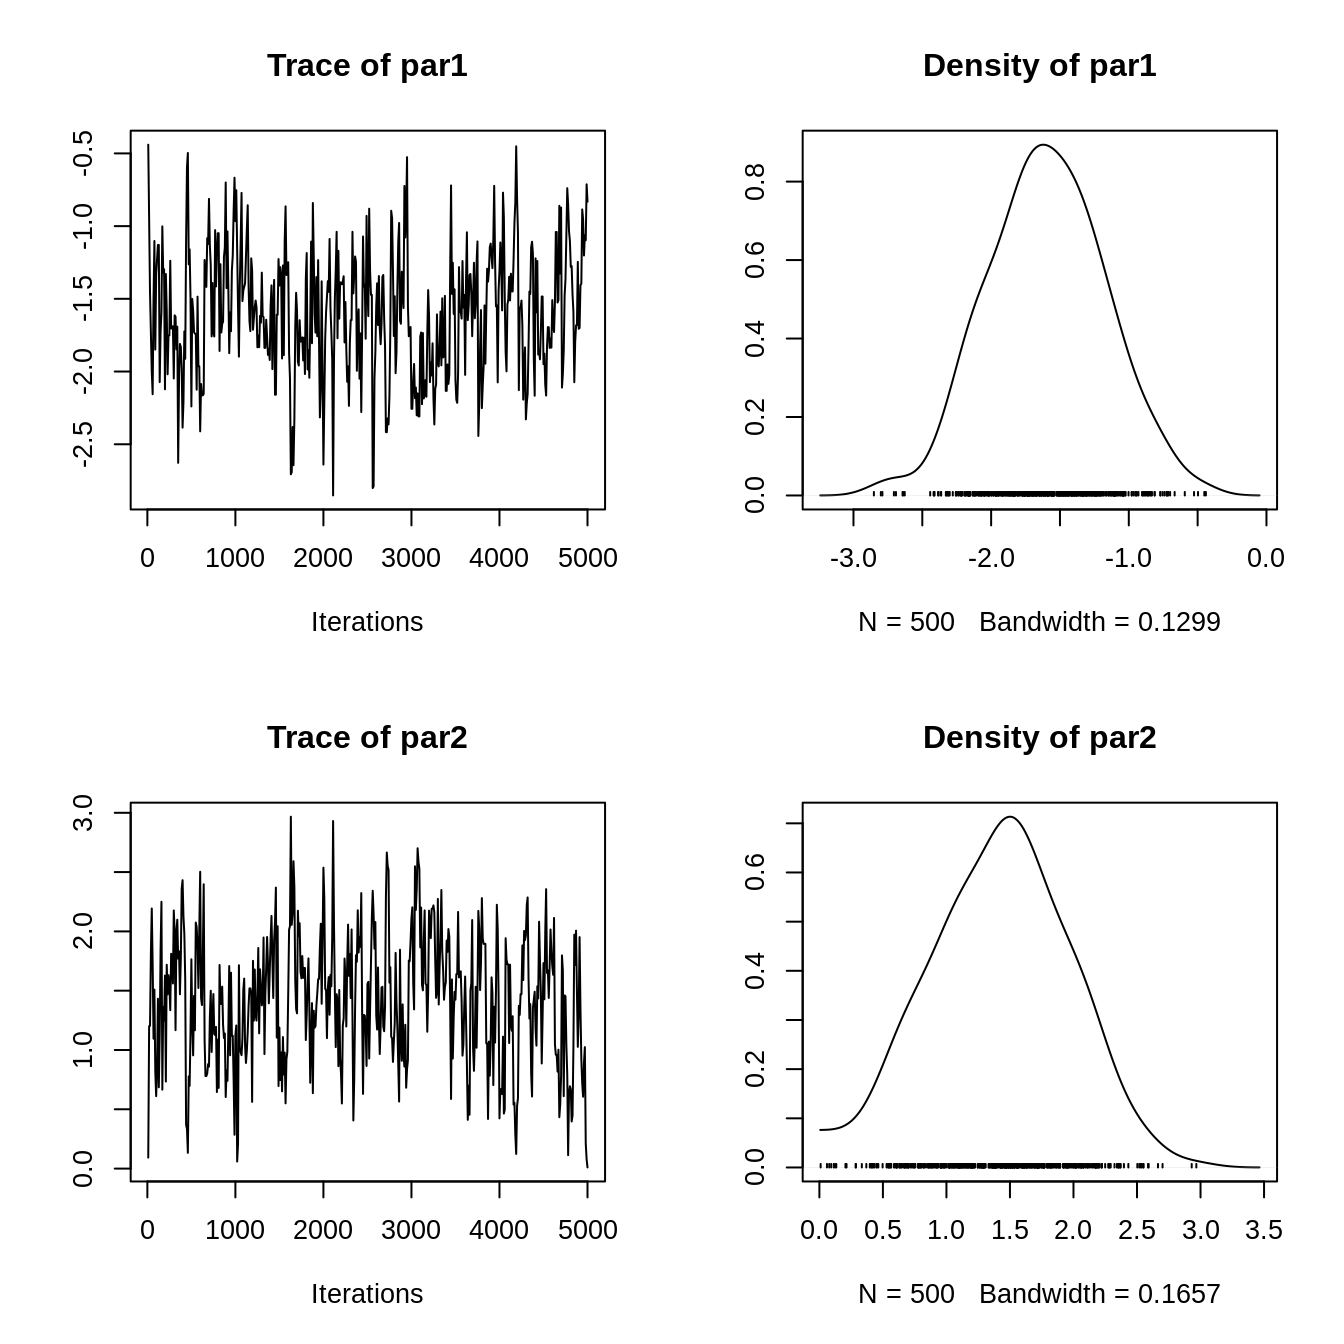
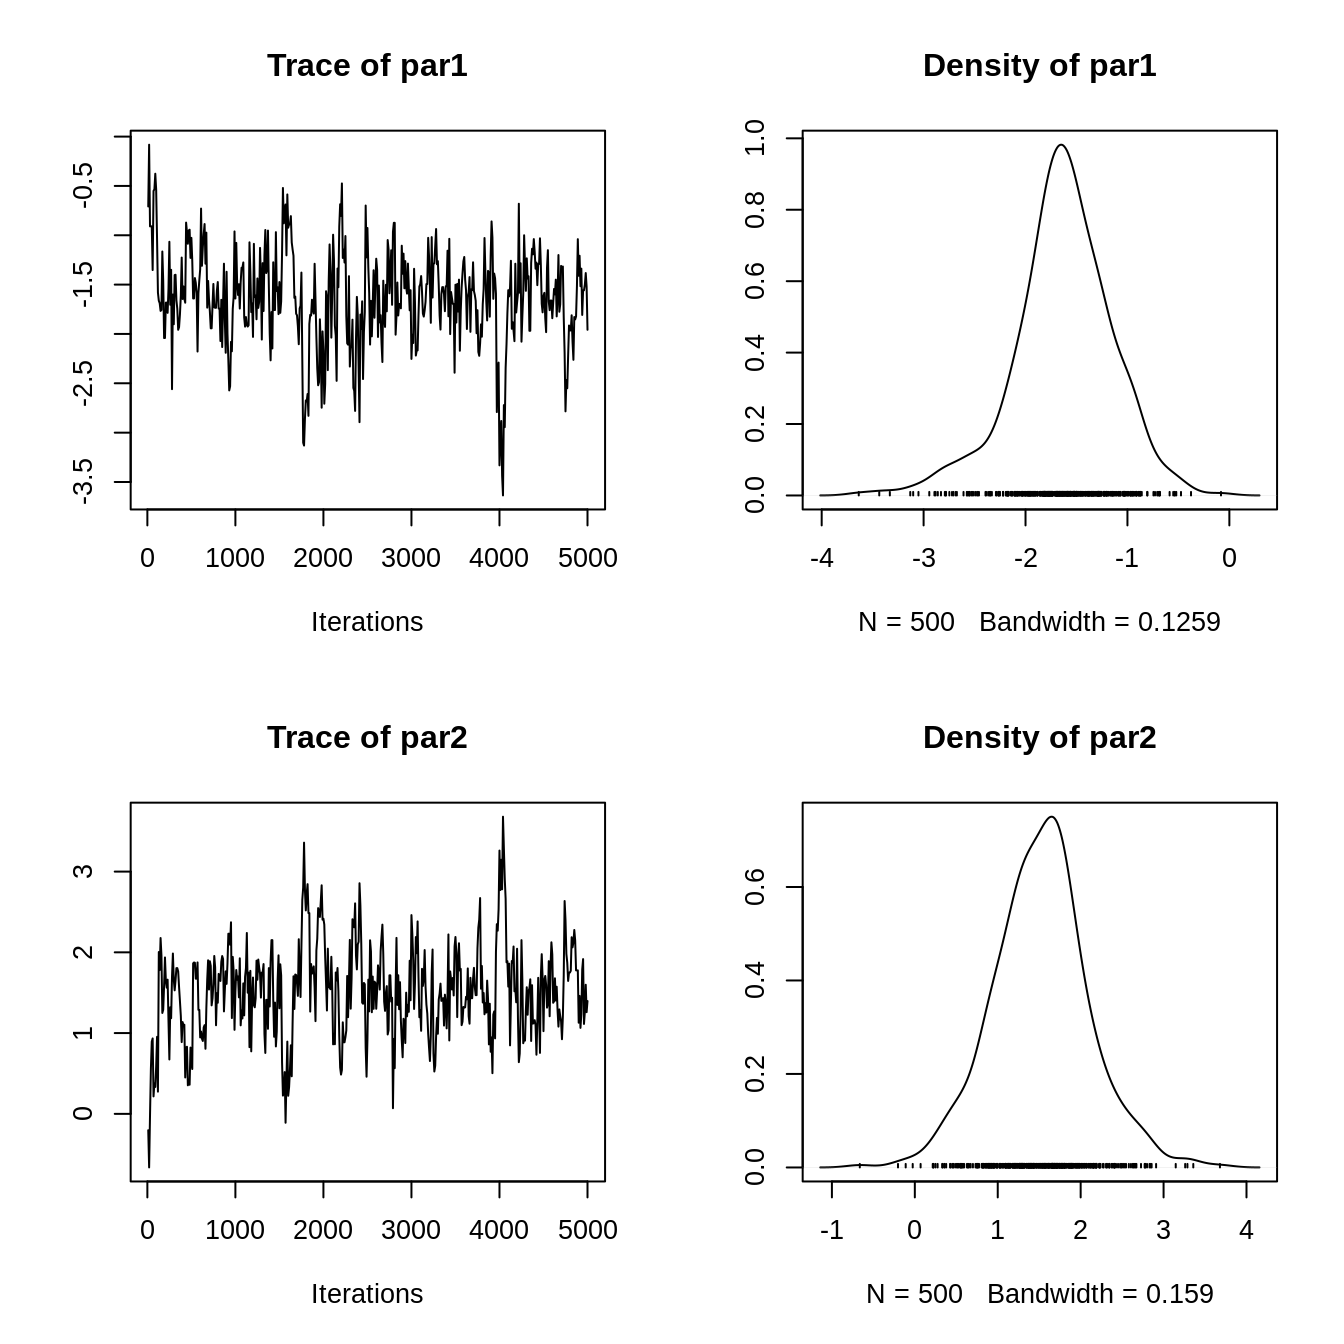
Built site for ergmito: 0.3-0@2fa9788

diff --git a/articles/extending-ergmito.html b/articles/extending-ergmito.html
@@ -101,7 +101,7 @@
       <h1 data-toc-skip>Extending ergmito</h1>
                         <h4 class="author">George G. Vega Yon</h4>
             
-            <h4 class="date">2020-08-07</h4>
+            <h4 class="date">2020-08-09</h4>
       
       <small class="dont-index">Source: <a href="https://github.com/muriteams/ergmito/blob/master/vignettes/extending-ergmito.Rmd"><code>vignettes/extending-ergmito.Rmd</code></a></small>
       <div class="hidden name"><code>extending-ergmito.Rmd</code></div>
@@ -138,8 +138,8 @@
 <span class="co">#&gt;         exact_loglik(ergmito_ptr, params = params, ..., as_prob = as_prob)</span>
 <span class="co">#&gt;     }</span>
 <span class="co">#&gt; }</span>
-<span class="co">#&gt; &lt;bytecode: 0x77fe490&gt;</span>
-<span class="co">#&gt; &lt;environment: 0x77fcd88&gt;</span></pre></body></html></div>
+<span class="co">#&gt; &lt;bytecode: 0x72fe538&gt;</span>
+<span class="co">#&gt; &lt;environment: 0x72f8d60&gt;</span></pre></body></html></div>
 <p>Besides of the log-likelihood function and the gradient function, <code>ergmito_formulae</code> also returns We can take a look at each component from our previous object:</p>
 <div class="sourceCode" id="cb2"><html><body><pre class="r"><span class="co"># The vectors of weights</span>
 <span class="fu"><a href="https://rdrr.io/r/utils/str.html">str</a></span>(<span class="no">model_object</span>$<span class="no">stats_weights</span>)
@@ -231,14 +231,14 @@
 <span class="co">#&gt;    plus standard error of the mean:</span>
 <span class="co">#&gt; </span>
 <span class="co">#&gt;        Mean     SD Naive SE Time-series SE</span>
-<span class="co">#&gt; par1 -1.597 0.4247  0.01899        0.03661</span>
-<span class="co">#&gt; par2  1.420 0.5419  0.02423        0.05163</span>
+<span class="co">#&gt; par1 -1.636 0.4872  0.02179        0.05699</span>
+<span class="co">#&gt; par2  1.517 0.5813  0.02600        0.06940</span>
 <span class="co">#&gt; </span>
 <span class="co">#&gt; 2. Quantiles for each variable:</span>
 <span class="co">#&gt; </span>
 <span class="co">#&gt;         2.5%    25%    50%    75%   97.5%</span>
-<span class="co">#&gt; par1 -2.3834 -1.878 -1.593 -1.308 -0.7612</span>
-<span class="co">#&gt; par2  0.3826  1.054  1.454  1.792  2.4154</span></pre></body></html></div>
+<span class="co">#&gt; par1 -2.7822 -1.881 -1.624 -1.329 -0.7182</span>
+<span class="co">#&gt; par2  0.3567  1.158  1.540  1.855  2.7509</span></pre></body></html></div>
 <p>Finally, we can compare this result with what we obtain from the <code>ergmito</code> function</p>
 <div class="sourceCode" id="cb7"><html><body><pre class="r"><span class="fu"><a href="https://rdrr.io/r/base/summary.html">summary</a></span>(<span class="fu"><a href="../reference/ergmito.html">ergmito</a></span>(<span class="no">fivenets</span> ~ <span class="no">edges</span> + <span class="fu">nodematch</span>(<span class="st">"female"</span>)))
 <span class="co">#&gt; Warning: The observed statistics (target.statistics) are near or at the boundary</span>

diff --git a/reference/ergmito.html b/reference/ergmito.html
@@ -350,7 +350,7 @@ diagnostics.</p></div>
 #&gt; 
 #&gt; formula:
 #&gt;   net ~ edges + mutual
-#&gt; &lt;environment: 0x10f2ea58&gt;
+#&gt; &lt;environment: 0x11d8d5a0&gt;
 #&gt; 
 #&gt;        Estimate Std. Error z value Pr(&gt;|z|)
 #&gt; edges   0.69312    1.11802  0.6199   0.5353
@@ -361,7 +361,7 @@ diagnostics.</p></div>
 #&gt; ==========================
 #&gt; 
 #&gt; Formula:   net ~ edges + mutual
-#&gt; &lt;environment: 0x10f2ea58&gt;
+#&gt; &lt;environment: 0x11d8d5a0&gt;
 #&gt; 
 #&gt; Iterations:  2 out of 20 
 #&gt; 
@@ -383,7 +383,7 @@ diagnostics.</p></div>
 #&gt; 
 #&gt; formula:
 #&gt;   fivenets ~ edges + nodematch("female")
-#&gt; &lt;environment: 0x10f2ea58&gt;
+#&gt; &lt;environment: 0x11d8d5a0&gt;
 #&gt; 
 #&gt;                  Estimate Std. Error z value Pr(&gt;|z|)   
 #&gt; edges            -1.70475    0.54356 -3.1363 0.001711 **
@@ -429,7 +429,7 @@ diagnostics.</p></div>
 #&gt; 
 #&gt; formula:
 #&gt;   nets ~ edges
-#&gt; &lt;environment: 0x10f2ea58&gt;
+#&gt; &lt;environment: 0x11d8d5a0&gt;
 #&gt; 
 #&gt;       Estimate Std. Error z value  Pr(&gt;|z|)    
 #&gt; edges -1.68640    0.15396 -10.954 &lt; 2.2e-16 ***
@@ -457,7 +457,7 @@ diagnostics.</p></div>
 #&gt; 
 #&gt; formula:
 #&gt;   nets ~ edges + I(edges * (n == 5))
-#&gt; &lt;environment: 0x10f2ea58&gt;
+#&gt; &lt;environment: 0x11d8d5a0&gt;
 #&gt; 
 #&gt;                     Estimate Std. Error z value  Pr(&gt;|z|)    
 #&gt; edges               -1.18958    0.21583 -5.5116 3.556e-08 ***

diff --git a/reference/ergmito_boot.html b/reference/ergmito_boot.html
@@ -216,7 +216,7 @@ values were returned are excluded from the calculation.</p>
 #&gt; 
 #&gt; formula:
 #&gt;   fivenets ~ edges + ttriad
-#&gt; &lt;environment: 0xcbd2f78&gt;
+#&gt; &lt;environment: 0xda31a30&gt;
 #&gt; 
 #&gt;         Estimate Std. Error z value Pr(&gt;|z|)  
 #&gt; edges   -0.89666    0.39389 -2.2765  0.02282 *
@@ -231,7 +231,7 @@ values were returned are excluded from the calculation.</p>
 #&gt; 
 #&gt; formula:
 #&gt;   fivenets ~ edges + ttriad
-#&gt; &lt;environment: 0xcbd2f78&gt;
+#&gt; &lt;environment: 0xda31a30&gt;
 #&gt; 
 #&gt;         Estimate Std. Error z value Pr(&gt;|z|)   
 #&gt; edges   -0.89666    0.32632 -2.7478 0.005999 **
@@ -246,7 +246,7 @@ values were returned are excluded from the calculation.</p>
 #&gt; 
 #&gt; formula:
 #&gt;   fivenets ~ edges + ttriad
-#&gt; &lt;environment: 0xcbd2f78&gt;
+#&gt; &lt;environment: 0xda31a30&gt;
 #&gt; 
 #&gt;         Estimate Std. Error z value Pr(&gt;|z|)  
 #&gt; edges   -0.89666    0.39037 -2.2970  0.02162 *

diff --git a/reference/benchmarkito.html b/reference/benchmarkito.html
@@ -205,10 +205,10 @@ and the order (fastest to slowest).</p>
 #&gt; Times (in seconds, see proc.time()):
 #&gt; 
 #&gt;           label user.self sys.self elapsed user.child sys.child    5%   50%
-#&gt; 1  exp(1:1e+05)     1e-03  0.00065  0.0016          0         0 0.001 0.002
-#&gt; 2 sqrt(1:1e+05)     6e-04  0.00050  0.0011          0         0 0.000 0.001
+#&gt; 1  exp(1:1e+05)   0.00105    7e-04 0.00170          0         0 0.001 0.002
+#&gt; 2 sqrt(1:1e+05)   0.00075    3e-04 0.00105          0         0 0.000 0.001
 #&gt;       95% relative ord
-#&gt; 1 0.00200 1.454545   2
+#&gt; 1 0.00200 1.619048   2
 #&gt; 2 0.00125 1.000000   1</div><div class='input'>
 </div></pre>
   </div>

diff --git a/articles/ergm-equations.html b/articles/ergm-equations.html
@@ -101,7 +101,7 @@
       <h1 data-toc-skip>ERGM equations</h1>
                         <h4 class="author">George G Vega Yon</h4>
             
-            <h4 class="date">2020-08-07</h4>
+            <h4 class="date">2020-08-09</h4>
       
       <small class="dont-index">Source: <a href="https://github.com/muriteams/ergmito/blob/master/vignettes/ergm-equations.Rmd"><code>vignettes/ergm-equations.Rmd</code></a></small>
       <div class="hidden name"><code>ergm-equations.Rmd</code></div>
